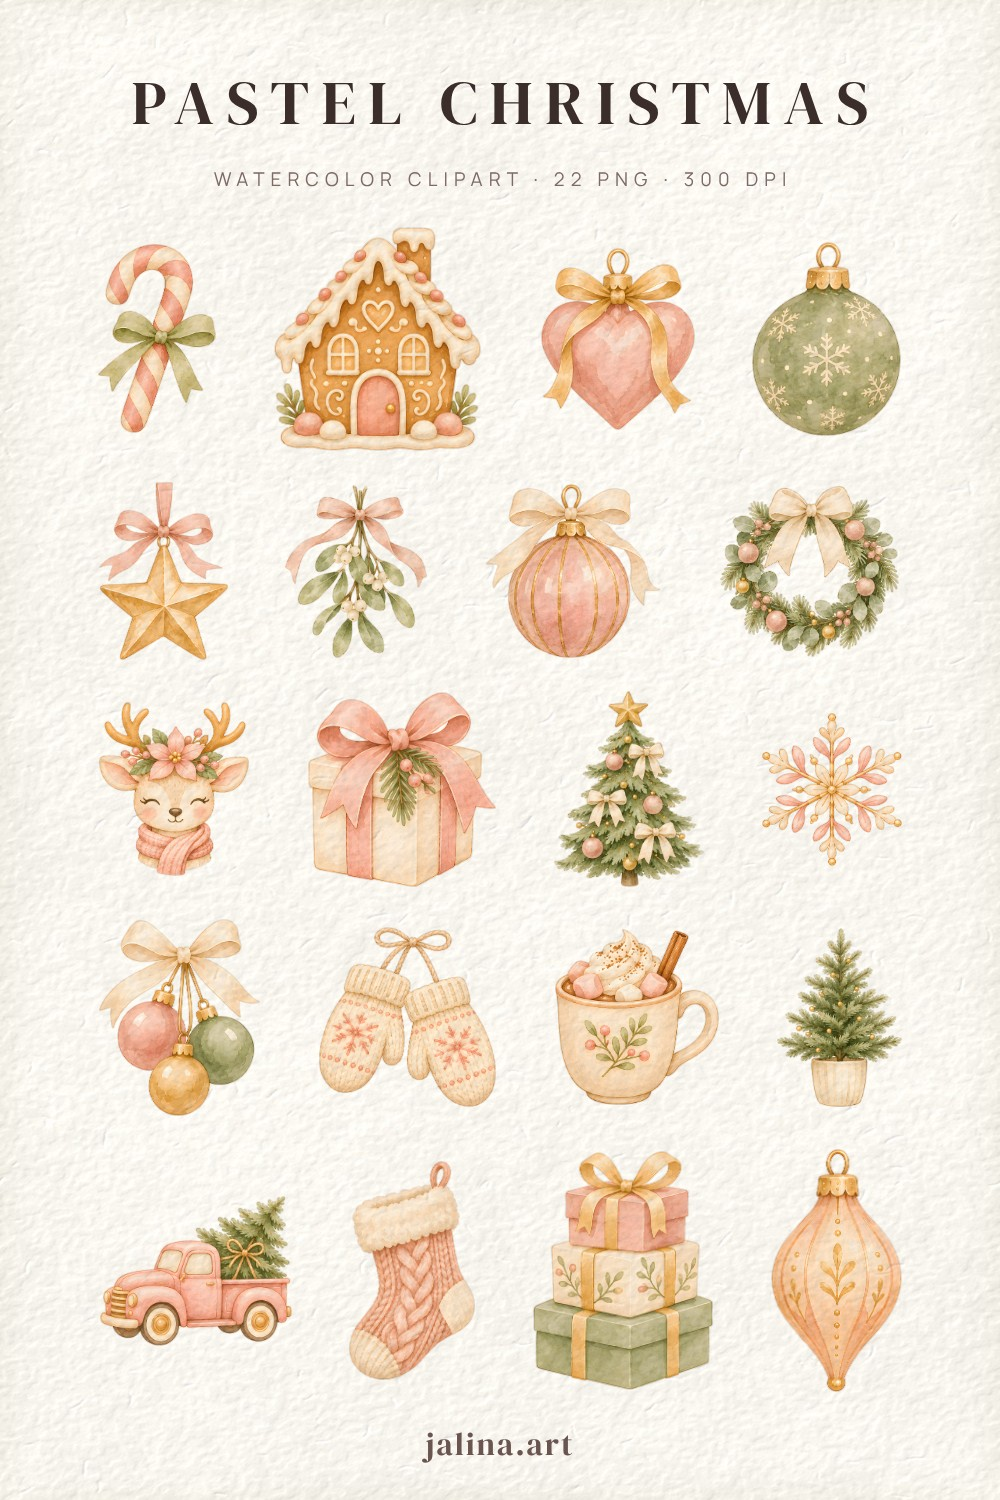
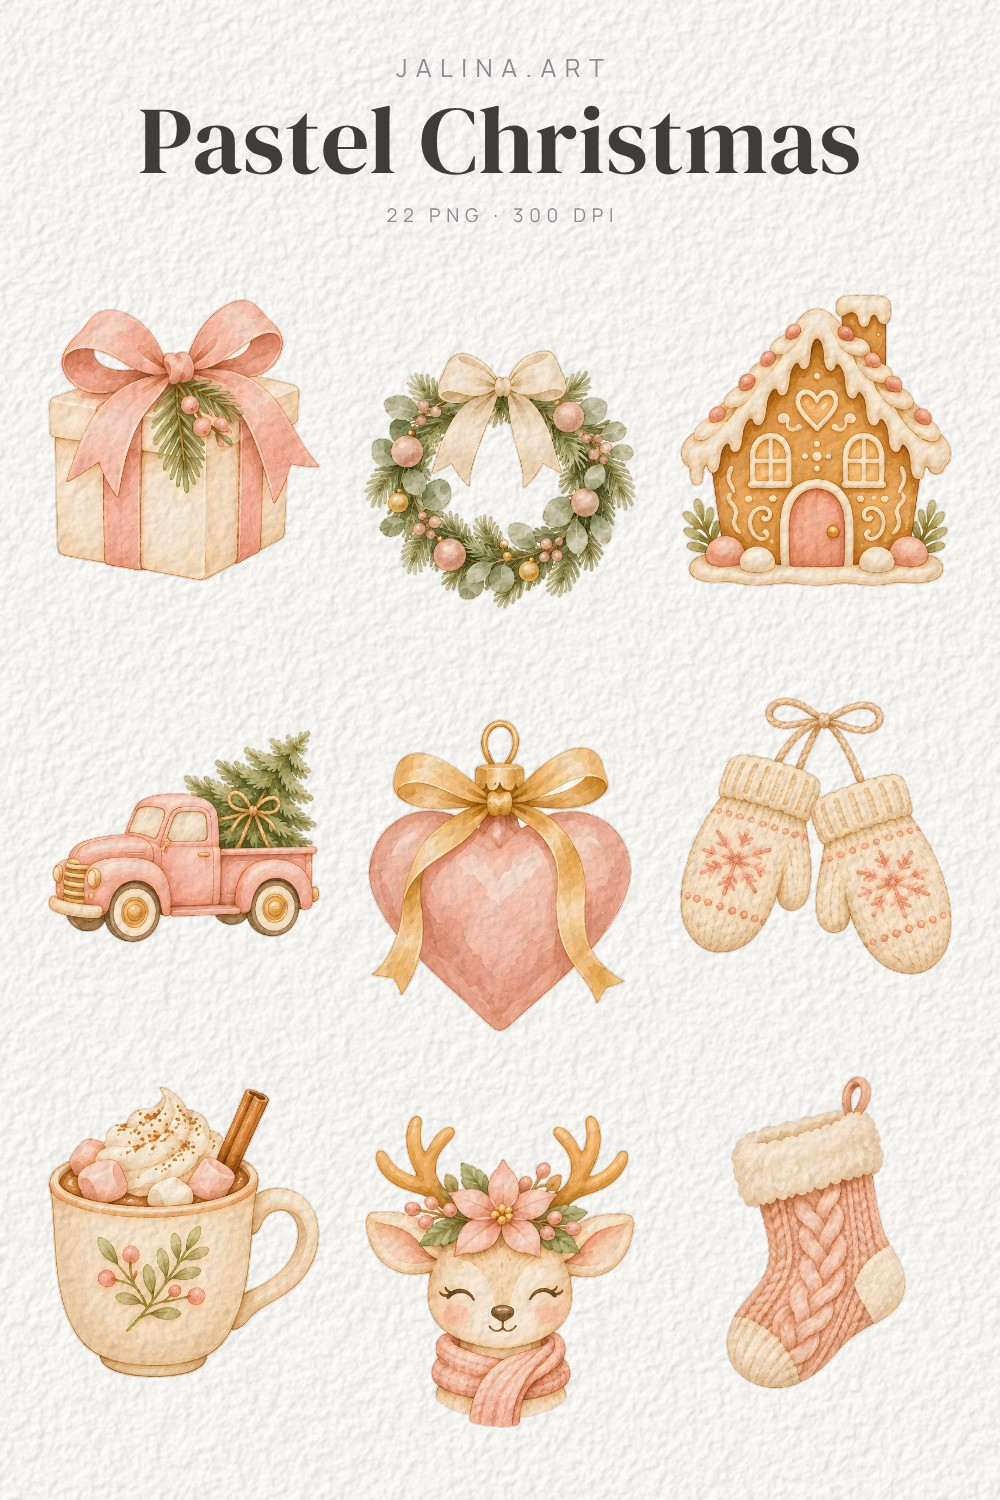
Pin template S v2: 9 big elements, cold-press paper, studio header
After Alina's feedback: loose 3x3 grid (tall 4x3) of the most recognisable,
varied set elements; pronounced but calm Lambert-shaded cotton paper (#F4F2EE);
JALINA.ART studio line + set name in DM Serif + PNG/DPI line, no bottom brand.

Claude-Session: https://claude.ai/code/session_011DEezwDVCdCrHxyaviwVHj

diff --git a/affiliate/pins/v2/gen.py b/affiliate/pins/v2/gen.py
@@ -7,8 +7,8 @@ brand = "jalina.art" plaque (pill, DM Serif 42px) bottom centre, readable at 236
   python3 gen.py B post:<slug> [index]          one hero = n-th product image of a blog post (white bg)
   python3 gen.py C <post-slug> [--title T]      numbered list pin from a blog post
   python3 gen.py D <set-id> [mockup 1-4] [--title T]   "in use": one real mockup as hero + strip of elements
-  python3 gen.py S <set-id> [--n 16..30] [--title T] [--size 1000x1500|1000x2000] [--script W] [--seed K]
-                                                product sheet: 16-25 set elements on cotton paper (Alina's favourite look)
+  python3 gen.py S <set-id> [--n 6..12] [--title T] [--size 1000x1500|1000x2000]
+                                                product sheet: 9 (tall 12) big set elements on cotton paper
   python3 gen.py list <set-id>                  show element indices of a set
 
 Writes v2-<T>-<id>.html here; render with `node shot.js` -> out/*.jpg.
@@ -237,149 +237,113 @@ def tmpl_d(sid, m, title=None, kicker=None, strip=3):
 
 
 # ---------- S: product sheet (Nov 12 2026, after Alina's favourite top pins) ----------
-# The whole pin IS the product: 16-25 set elements packed edge to edge on cotton watercolor paper,
-# thin spaced-caps serif title, tiny "WATERCOLOR CLIPART · N PNG · 300 DPI" line, small jalina.art.
+# v2 (Alina's feedback): few BIG elements (default 9 = 3x3, tall 12 = 4x3) in a loose grid on visible
+# cold-press cotton paper; studio line "JALINA.ART" on top, set name big in DM Serif, "N PNG · 300 DPI".
 PAPER = os.path.join(HERE, 'assets', 'cotton-paper.jpg')  # made by paper.py (procedural, 1000x2000)
+# tiny bits / scatters that read badly when shown large
+TINY = re.compile(r'confetti|petals|dots|sprinkles|scatter|footprint|bone|crumbs|sparkle|cluster', re.I)
 
 
 def ink(path):
-    """Fraction of the trimmed bbox covered by paint (alpha) -> sparse items get a bigger slot."""
-    from PIL import Image
+    """Fraction of the trimmed bbox covered by paint (alpha): dense = solid, recognisable object."""
     import numpy as np
+    from PIL import Image
     a = np.asarray(Image.open(path).getchannel('A').resize((64, 64)))
-    return max(0.25, min(0.95, float((a > 40).mean())))
+    return max(0.2, min(0.95, float((a > 40).mean())))
 
 
-def sheet_layout(items, bw, bh, gap, seed=1, tries=1500):
-    """items: [(aspect, rel_height, fill, is_hero)]. Random orders x greedy rows, each row justified
-    to bw (stretch capped), global scale binary-searched to fill bh; best-scoring order wins.
-    Returns positions [(x,y,w,h)] in item order (box coordinates)."""
-    import random
-    rnd = random.Random(seed)
-    n = len(items)
-    best = None
-
-    def rows_at(order, k):
-        rows, cur, cw = [], [], 0
-        for i in order:
-            w = items[i][0] * items[i][1] * k
-            if cur and cw + gap + w > bw:
-                rows.append(cur); cur, cw = [], 0
-            cur.append(i); cw += (gap if len(cur) > 1 else 0) + w
-        rows.append(cur)
-        out, th = [], 0
-        for row in rows:
-            nat = sum(items[i][0] * items[i][1] * k for i in row)
-            sc = min(1.18, (bw - gap * (len(row) - 1)) / nat)
-            rh = max(items[i][1] * k * sc for i in row)
-            out.append((row, sc, rh)); th += rh
-        return out, th + gap * (len(rows) - 1)
-
-    for _ in range(tries):
-        order = list(range(n)); rnd.shuffle(order)
-        # rows chosen at width-scale k; if they are too tall, the whole sheet is scaled down to fit
-        for k in (bw * f / 6 for f in (0.8, 0.88, 0.96, 1.04, 1.12, 1.2, 1.3, 1.4, 1.5, 1.65)):
-            rows, th = rows_at(order, k)
-            if len(rows) < 3 or any(len(r) > 6 for r, _, _ in rows):
-                continue
-            fit = min(1.0, bh / th)
-            sz = lambda i, sc: items[i][1] * k * sc * fit
-            area = sum(items[i][0] * sz(i, sc) ** 2 * items[i][2] for row, sc, _ in rows for i in row)
-            empty = sum(bw - sum(items[i][0] * sz(i, sc) for i in row) for row, sc, _ in rows)
-            waste = sum(items[i][0] * sz(i, sc) * (rh * fit - sz(i, sc)) for row, sc, rh in rows for i in row)
-            heroes = [sum(1 for i in row if items[i][3]) for row, _, _ in rows]
-            cnt = [len(r) for r, _, _ in rows]
-            uneven = sum(abs(c - sum(cnt) / len(cnt)) for c in cnt) / len(cnt)
-            score = (area / (bw * bh) - 0.03 * uneven - 0.04 * empty / bw - 0.7 * waste / (bw * bh) - 0.15 * (1 - th * fit / bh)
-                     - 0.08 * sum(max(0, h - 1) for h in heroes) - 0.1 * sum(1 for r, _, _ in rows if len(r) == 1))
-            if best is None or score > best[0]:
-                best = (score, rows, th, k, fit)
-    _, rows, th, k, fit = best
-    nr = len(rows)
-    th *= fit
-    vgap = gap * fit
-    vgap = min(gap * 2.4, vgap + (bh - th) / max(1, nr - 1))
-    used = th + (vgap - gap * fit) * (nr - 1)
-    y = (bh - used) / 2
-    pos = [None] * n
-    for row, sc, rh in rows:
-        rh *= fit
-        ws = [items[i][0] * items[i][1] * k * sc * fit for i in row]
-        free = bw - sum(ws)
-        if len(row) == 1:
-            g, x = 0, free / 2
-        elif free / (len(row) - 1) > gap * 2.2:  # narrow row: spread with outer margins
-            g = free / (len(row) + 1); x = g
-        else:
-            g, x = free / (len(row) - 1), 0
-        for i, w in zip(row, ws):
-            h = items[i][1] * k * sc * fit
-            pos[i] = (x, y + (rh - h) / 2, w, h)
-            x += w + g
-        y += rh + vgap
-    return pos
+KINDS = [('vehicle', r'truck|car\\b|sleigh'), ('house', r'house|village'), ('plant', r'tree|fern|palm|plant|bush|leaves'), ('gift', r'gift|present|box'), ('ornament', r'bauble|ornament'),
+         ('cake', r'cake|cupcake|cookie'), ('balloon', r'balloon'), ('hat', r'hat\b|party-hat'),
+         ('wreath', r'wreath'), ('drink', r'mug|cup|cocoa|coffee|tea'), ('bouquet', r'bouquet|posy|arrangement'),
+         ('egg', r'egg')]
 
 
-def sheet_style(s):
-    d = (s.get('desc', '') + ' ' + s['name']).lower()
-    return 'crayon clipart' if 'crayon' in d else 'watercolor clipart'
+def noun(fname):
+    """Subject type of an element (tree, gift, ornament...; else the last word of its name), for variety."""
+    for k, rx in KINDS:
+        if re.search(rx, fname, re.I):
+            return k
+    w = pretty(fname).split()
+    return re.sub(r'(es|s)$', '', w[-1]) if w else fname
 
 
-SHEET_FIT = ('<script>document.fonts.ready.then(()=>{const e=document.querySelector(".ttl");let s=+e.dataset.fit;'
-             'e.style.fontSize=s+"px";while(e.scrollWidth>e.clientWidth&&s>34){s-=2;e.style.fontSize=s+"px"}'
-             'document.body.dataset.ready=1})</script>')
+def pick_showcase(els, n):
+    """Most attractive elements: no lettering/garlands/tiny bits, dense (solid objects) first,
+    one per subject type while possible, then spread back into the set's (alphabetical) order."""
+    ok = [e for e in els if not SKIP.search(e[0]) and not TINY.search(e[0]) and 0.5 <= e[3] <= 1.8]
+    if len(ok) < n:
+        ok += [e for e in els if e not in ok and not SKIP.search(e[0]) and 0.4 <= e[3] <= 2.4]
+    ranked = sorted(ok, key=lambda e: -ink(e[1]))
+    out, seen = [], set()
+    for e in ranked:
+        if noun(e[0]) not in seen:
+            out.append(e); seen.add(noun(e[0]))
+        if len(out) == n:
+            break
+    for e in ranked:
+        if len(out) == n:
+            break
+        if e not in out:
+            out.append(e)
+    # interleave so neighbours differ (alternate from both ends of the density ranking)
+    out.sort(key=lambda e: -ink(e[1]))
+    mixed = []
+    while out:
+        mixed.append(out.pop(0))
+        if out:
+            mixed.append(out.pop(len(out) // 2))
+    return mixed
 
 
-def tmpl_s(sid, n, title=None, size=(1000, 1500), script=None, seed=1):
+def tmpl_s(sid, n, title=None, size=(1000, 1500)):
     w_, h_ = size
     s = SHOP[sid]
-    els = [e for e in set_elements(sid) if not SKIP.search(e[0])]
-    flat = [e for e in els if 0.45 <= e[3] <= 2.2]  # no very wide garlands unless needed
-    if n is None:
-        n = min(25, len(flat)) if len(flat) >= 16 else min(25, len(els))
-    if len(flat) >= n:
-        els = flat
-    if len(els) > n:  # spread the pick over the alphabetical list -> variety
-        step = len(els) / n
-        els = [els[int(i * step)] for i in range(n)]
-    fills = [ink(e[1]) for e in els]
-    # visual weight: densest 3 (cakes, wreaths, houses) = heroes, sparsest quarter = small accents
-    rank = sorted(range(len(els)), key=lambda i: -fills[i])
-    hero = set(rank[:3]); small = set(rank[-max(1, len(els) // 4):])
-    items = []
-    for i, e in enumerate(els):
-        T = 1.8 if i in hero else 0.6 if i in small else 1.0
-        items.append((e[3], math.sqrt(T / (e[3] * fills[i])), fills[i], i in hero))
-    title = (title or s['name']).upper()
-    sub = f'{sheet_style(s)} · {s["count"]} PNG · 300 DPI'.upper()
-    ttop = 128 if script else 70
-    top = ttop + 150
-    side, bottom = 46, 100
-    bw, bh = w_ - 2 * side, h_ - top - bottom
-    pos = sheet_layout(items, bw, bh, 24, seed)
-    body = f'<div class=scr>{esc(script)}</div>' if script else ''
-    body += f'<div class=ttl data-fit=62>{esc(title)}</div><div class=sub>{esc(sub)}</div>'
-    for e, (x, y, w, h) in zip(els, pos):
-        p = 0.03 * min(w, h)
-        body += (f'<div class=abs style="left:{side+x+p:.0f}px;top:{top+y+p:.0f}px;width:{w-2*p:.0f}px;'
-                 f'height:{h-2*p:.0f}px"><img src="file://{e[2]}"></div>')
+    cols = 3
+    n = n or (12 if h_ > 1600 else 9)
+    els = pick_showcase(set_elements(sid), n)
+    n = len(els)
+    rows = math.ceil(n / cols)
+    title = title or s['name']
+    sub = f'{s["count"]} PNG · 300 DPI'
+    top, bottom, side = 262, 50, 26
+    cw, ch = (w_ - 2 * side) / cols, (h_ - top - bottom) / rows
+    stagger = ch * 0.10  # middle column sits a little lower, like a hand-laid sheet
+    top_adj = top - stagger / 2
+    body = (f'<div class=studio>JALINA.ART</div><div class=ttl data-fit=96>{esc(title)}</div>'
+            f'<div class=sub>{esc(sub)}</div>')
+    for k, e in enumerate(els):
+        r, c = divmod(k, cols)
+        in_row = min(cols, n - r * cols)
+        cx0 = side + (cols - in_row) * cw / 2  # centre a short last row
+        fill = ink(e[1])
+        # visual weight: sparse elements (sprigs, wreaths) may use more of the cell than solid ones
+        frac = 0.86 if fill > 0.55 else 0.92
+        bw_, bh_ = cw * frac, ch * frac * 0.92
+        w, h = (bw_, bw_ / e[3]) if bw_ / e[3] <= bh_ else (bh_ * e[3], bh_)
+        x = cx0 + c * cw + (cw - w) / 2
+        y = top_adj + r * ch + (ch - h) / 2 + (stagger if c == 1 and in_row == cols else 0)
+        body += (f'<div class=abs style="left:{x:.0f}px;top:{y:.0f}px;width:{w:.0f}px;height:{h:.0f}px">'
+                 f'<img src="file://{e[2]}"></div>')
     css = f'''@font-face{{font-family:S;src:url(file://{FONTS}/DMSerifDisplay-400-latin.woff2)}}
-@font-face{{font-family:C;src:url(file://{FONTS}/Caveat-700-latin.woff2)}}
 @font-face{{font-family:M;src:url(file://{FONTS}/Manrope-400-latin.woff2)}}
 *{{box-sizing:border-box;margin:0;padding:0}}
 html,body{{width:{w_}px;height:{h_}px;overflow:hidden}}
-body{{position:relative;background:#FAF7F1 url(file://{PAPER}) 0 0/{w_}px {h_}px no-repeat;color:#3A2C28}}
+body{{position:relative;background:#F4F2EE url(file://{PAPER}) 0 0/{w_}px {h_}px no-repeat;color:#3E3D3C}}
 .abs{{position:absolute}} .abs img{{width:100%;height:100%;object-fit:contain;display:block;mix-blend-mode:multiply}}
-.scr{{position:absolute;top:56px;left:0;right:0;text-align:center;font-family:C;font-size:50px;color:#A0525E;line-height:1}}
-.ttl{{position:absolute;top:{ttop}px;left:50px;right:50px;text-align:center;font-family:S;line-height:1.05;
-letter-spacing:.2em;padding-left:.2em;white-space:nowrap;color:#3B2D29}}
-.sub{{position:absolute;top:{ttop+96}px;left:0;right:0;text-align:center;font-family:M;font-size:19px;
-letter-spacing:.32em;padding-left:.32em;color:#7D6A64}}
-.brand{{position:absolute;left:0;right:0;bottom:34px;text-align:center;font-family:S;font-size:32px;
-letter-spacing:.06em;color:#6B5550}}'''
+.studio{{position:absolute;top:50px;left:0;right:0;text-align:center;font-family:M;font-size:25px;
+letter-spacing:.34em;padding-left:.34em;color:#8E8A93}}
+.ttl{{position:absolute;top:88px;left:40px;right:40px;text-align:center;font-family:S;line-height:1.08;
+white-space:nowrap;color:#3E3D3C;letter-spacing:.01em}}
+.sub{{position:absolute;top:202px;left:0;right:0;text-align:center;font-family:M;font-size:19px;
+letter-spacing:.3em;padding-left:.3em;color:#8E8A93}}'''
     doc = (f'<!doctype html><html data-w={w_} data-h={h_}><head><meta charset=utf-8><style>{css}</style></head>'
-           f'<body>{body}<div class=brand>jalina.art</div>{SHEET_FIT}</body></html>')
+           f'<body>{body}{SHEET_FIT}</body></html>')
     return doc, [e[0] for e in els]
+
+
+SHEET_FIT = ('<script>document.fonts.ready.then(()=>{const e=document.querySelector(".ttl");let s=+e.dataset.fit;'
+             'e.style.fontSize=s+"px";while(e.scrollWidth>e.clientWidth&&s>40){s-=2;e.style.fontSize=s+"px"}'
+             'document.body.dataset.ready=1})</script>')
 
 
 # ---------- blog posts ----------
@@ -446,10 +410,8 @@ def main():
     ap.add_argument('template', choices=['A', 'B', 'C', 'D', 'S', 'list'])
     ap.add_argument('target')
     ap.add_argument('index', nargs='?', type=int)
-    ap.add_argument('-n', '--n', type=int, default=None, help='A: number of elements (9-20, default 12); S: 16-30 (default: all non-lettering, non-garland elements, max 25)')
+    ap.add_argument('-n', '--n', type=int, default=None, help='A: number of elements (9-20, default 12); S: 6-12 (default 9, tall 12)')
     ap.add_argument('--size', default='1000x1500', help='S: 1000x1500 or 1000x2000')
-    ap.add_argument('--script', help='S: optional small script word above the title')
-    ap.add_argument('--seed', type=int, default=1, help='S: layout seed (try another if a sheet looks off)')
     ap.add_argument('--title', help='A/C/D: override headline (keep it true: number = real count)')
     ap.add_argument('--text', help='B: 0-3 words over the hero ("" = no text)')
     ap.add_argument('--strip', type=int, default=3, help='D: set elements under the mockup (0 = none, 3-4)')
@@ -462,7 +424,7 @@ def main():
         return
     if a.template == 'S':
         sw, sh = map(int, a.size.lower().split('x'))
-        doc, used = tmpl_s(a.target, a.n and max(16, min(30, a.n)), a.title, (sw, sh), a.script, a.seed)
+        doc, used = tmpl_s(a.target, a.n and max(6, min(12, a.n)), a.title, (sw, sh))
         name = f'v2-S-{a.target}' + ('-tall' if sh > 1600 else '')
     elif a.template == 'A':
         doc, used = tmpl_a(a.target, max(9, min(20, a.n or 12)), a.title)

diff --git a/affiliate/pins/v2/paper.py b/affiliate/pins/v2/paper.py
@@ -1,63 +1,48 @@
 """Procedural cold-press cotton watercolor paper -> assets/cotton-paper.jpg (1000x2000, no downloads).
 
-Height map = blurred noise at several scales (fine grain, the rounded "tooth" bumps of cold-press
-paper, soft hills) + a few faint cotton fibres; lit from the top-left (emboss shading) and laid over
-a warm white with slow tonal unevenness and a very faint deckle-like darkening at the edges.
-  python3 paper.py [--seed 7] [--out assets/cotton-paper.jpg]
+Looks like a scan of real cotton paper under soft side light: a pebbly height map (multi-octave
+noise, rounded bumps ~6-14 px plus finer grain), Lambert-shaded with light from the upper left,
+low contrast, cool near-white (#F4F2EE), even lighting (no vignette).
+  python3 paper.py [--seed 7] [--strength 1.0] [--out assets/cotton-paper.jpg]
 """
 import argparse, os
 import numpy as np
 from PIL import Image
 
 W, H = 1000, 2000
-BASE = np.array([250, 247, 241], float)  # warm white (#FAF7F1)
+BASE = np.array([245, 243, 239], float)  # #F4F2EE
 
 
-def blur(a, sigma):
-    """Gaussian blur via FFT (periodic), no scipy needed."""
+def blur(a, sigma, sy=None):
+    """Gaussian blur via FFT (periodic), no scipy needed; sy != sigma -> slightly elongated grain."""
+    sy = sigma if sy is None else sy
     fy = np.fft.fftfreq(a.shape[0])[:, None]
     fx = np.fft.fftfreq(a.shape[1])[None, :]
-    g = np.exp(-2 * (np.pi * sigma) ** 2 * (fx ** 2 + fy ** 2))
-    return np.real(np.fft.ifft2(np.fft.fft2(a) * g))
+    return np.real(np.fft.ifft2(np.fft.fft2(a) * np.exp(-2 * np.pi ** 2 * ((sigma * fx) ** 2 + (sy * fy) ** 2))))
 
 
 def norm(a):
     return (a - a.mean()) / (a.std() + 1e-9)
 
 
-def make(seed):
+def make(seed, strength=1.0):
     rng = np.random.default_rng(seed)
     n = lambda: rng.standard_normal((H, W))
-    # tooth: rounded bumps ~5-10 px, softly clipped so they read as raised grains, not static
-    tooth = norm(blur(n(), 2.6))
-    tooth = np.tanh(tooth * 1.3)
-    hills = norm(blur(n(), 9))
+    # pebbles: rounded bumps; tanh flattens the valleys/tops so they read as pressed felt texture
+    peb = np.tanh(norm(blur(n(), 3.0, 3.8)) * 0.9)  # felt-pressed pebbles, a touch taller than wide
+    mid = norm(blur(n(), 1.6, 2.2))
+    hills = norm(blur(n(), 12))
     grain = norm(blur(n(), 0.8))
-    h = 1.0 * tooth + 0.55 * hills + 0.18 * grain
-    # faint cotton fibres: short random strokes in the height map
-    fib = np.zeros((H, W))
-    for _ in range(350):  # short, gently curved
-        x, y = rng.uniform(0, W), rng.uniform(0, H)
-        ang, L, bend = rng.uniform(0, 2 * np.pi), rng.uniform(6, 22), rng.uniform(-0.08, 0.08)
-        for _ in range(int(L)):
-            x, y, ang = x + np.cos(ang), y + np.sin(ang), ang + bend
-            fib[int(y) % H, int(x) % W] += 1
-    h += 0.18 * norm(blur(fib, 0.9))
-    # emboss: light from the top-left
-    gy, gx = np.gradient(blur(h, 0.6))
-    shade = -(gx * 0.7 + gy * 0.7)
-    shade = shade / (shade.std() + 1e-9)
-    # slow tonal unevenness (sizing / cotton density)
-    tone = norm(blur(n(), 120)) * 0.6 + norm(blur(n(), 40)) * 0.4
-    lum = 1 + 0.018 * shade + 0.006 * h + 0.006 * tone
-    # very faint edge darkening (deckle feel), irregular
-    yy, xx = np.mgrid[0:H, 0:W]
-    d = np.minimum.reduce([xx, W - 1 - xx, yy, H - 1 - yy]).astype(float)
-    wob = blur(n(), 25) * 18
-    edge = np.clip(1 - (d + wob) / 60, 0, 1) ** 2
-    lum -= 0.03 * edge
+    h = 1.0 * peb + 0.35 * mid + 0.25 * hills + 0.06 * grain
+    # Lambert shading: normal from the height gradient, soft light from the upper left
+    gy, gx = np.gradient(h * 1.6)
+    nz = 1 / np.sqrt(gx ** 2 + gy ** 2 + 1)
+    nx, ny = -gx * nz, -gy * nz
+    L = np.array([-0.55, -0.55, 0.63]); L /= np.linalg.norm(L)
+    lam = nx * L[0] + ny * L[1] + nz * L[2]
+    lam = (lam - lam.mean()) / (lam.std() + 1e-9)
+    lum = 1 + strength * (0.021 * lam + 0.003 * h)
     rgb = BASE[None, None, :] * lum[..., None]
-    rgb[..., 2] -= 3 * edge  # edges a touch warmer
     return Image.fromarray(np.clip(rgb, 0, 255).astype(np.uint8))
 
 
@@ -65,8 +50,9 @@ if __name__ == '__main__':
     here = os.path.dirname(os.path.abspath(__file__))
     ap = argparse.ArgumentParser()
     ap.add_argument('--seed', type=int, default=7)
+    ap.add_argument('--strength', type=float, default=1.0)
     ap.add_argument('--out', default=os.path.join(here, 'assets', 'cotton-paper.jpg'))
     a = ap.parse_args()
     os.makedirs(os.path.dirname(a.out), exist_ok=True)
-    make(a.seed).save(a.out, quality=88, optimize=True)
+    make(a.seed, a.strength).save(a.out, quality=88, optimize=True)
     print(a.out, os.path.getsize(a.out) // 1024, 'KB')

diff --git a/affiliate/pins/v2/README.md b/affiliate/pins/v2/README.md
@@ -15,16 +15,15 @@ the product. Layouts keep ~130 px free at the bottom for it.
 | **C** numbered list | blush background, headline "`<N> <topic>`", 2×4 grid of the post's numbered product images (max 8 shown, N = real item count), brand plaque | blog articles |
 | **D** in use | cream background, headline "`<count> <set name> PNG`", one real mockup of the set (`jalina-factory/ready/<set>/mockup-N.jpg`, shown whole in a rounded card), strip of 3 set elements under it, brand plaque. No price, no dark blocks | own sets → `/shop/<slug>/` or Payhip |
 
-**S** product sheet (Nov 12 2026, modelled on Alina's favourite top pins, e.g. "LITTLE COQUETTES", "COFFEE LOVE VOL.2"):
-the whole pin is the product. Up to 25 of the set's own PNGs (lettering and very wide garlands skipped) are packed
-edge to edge in rows: the densest 3 elements are heroes (larger), the sparsest quarter are small accents. Sizes are
-scaled so each element's painted area matches its weight. Nothing overlaps and nothing is cropped. The best of 1500 random orders is
-chosen by fill, low wasted space and even rows. Background: procedural cold-press cotton watercolor paper
-(`assets/cotton-paper.jpg`, made by `paper.py`, no downloaded images), elements drawn with `multiply` so the tooth
-shows through like print. Title: set name in spaced DM Serif caps (no thin Didone is available locally).
-Subtitle: Manrope spaced caps `WATERCOLOR CLIPART · <count> PNG · 300 DPI`, or `CRAYON` when the shop.json desc
-says crayon. Count comes from shop.json. Brand: plain `jalina.art` 32 px at the bottom centre, with no plaque. Sizes 1000x1500
-or 1000x2000 (`-tall`). Try another `--seed` if a sheet looks unbalanced.
+**S** product sheet (Nov 12 2026, after Alina's feedback and her favourite reference "Coffee" by a watercolor studio):
+few BIG elements in a loose 3-column grid: 9 by default (3x3), 12 on 1000x2000 (`-tall`), `--n 6..12`. The middle column
+sits slightly lower, like a hand-laid sheet. Picks the most recognisable elements of the set: no lettering, no garlands,
+no tiny scatters (confetti, petals, footprints, clusters); solid, dense objects come first, with one per subject type
+(gift, tree/plant, ornament, cake, drink, vehicle, house...) so the sheet stays varied.
+Background: procedural cold-press cotton watercolor paper, `assets/cotton-paper.jpg`, made by `paper.py`. It uses
+multi-octave pebble height map, Lambert light from the upper left, cool #F4F2EE, even light and no downloads. Elements use `multiply` so the paper
+shows through like print. Header: studio line `JALINA.ART` (Manrope spaced caps, muted), set name big in DM Serif
+Display, `<count> PNG · 300 DPI` (count from shop.json). No bottom brand: the studio line carries jalina.art.
 
 ## Usage
 ```bash
@@ -36,7 +35,7 @@ python3 gen.py B post:christmas-tumbler-wrap 2   # 2nd product image of a post, 
 python3 gen.py C christmas-tumbler-wrap      # list pin (--title "8 Christmas Tumbler Wraps" to override)
 python3 gen.py D 21-dino-birthday 2          # mockup-2 as hero -> v2-D-21-dino-birthday-m2.html
                                              # --title "Make your own dino party toppers" --strip 0|3|4 --kicker "..."
-python3 gen.py S 05-pastel-christmas --size 1000x2000   # -> v2-S-05-pastel-christmas-tall.html (--n 16..30, --title, --script)
+python3 gen.py S 05-pastel-christmas --size 1000x2000   # -> v2-S-05-pastel-christmas-tall.html (--n 6..12, --title)
 python3 paper.py                             # regenerate assets/cotton-paper.jpg (--seed)
 node shot.js [prefix]                        # renders *.html -> out/*.jpg (size from <html data-w data-h>, default 1000x1500)
 ```
